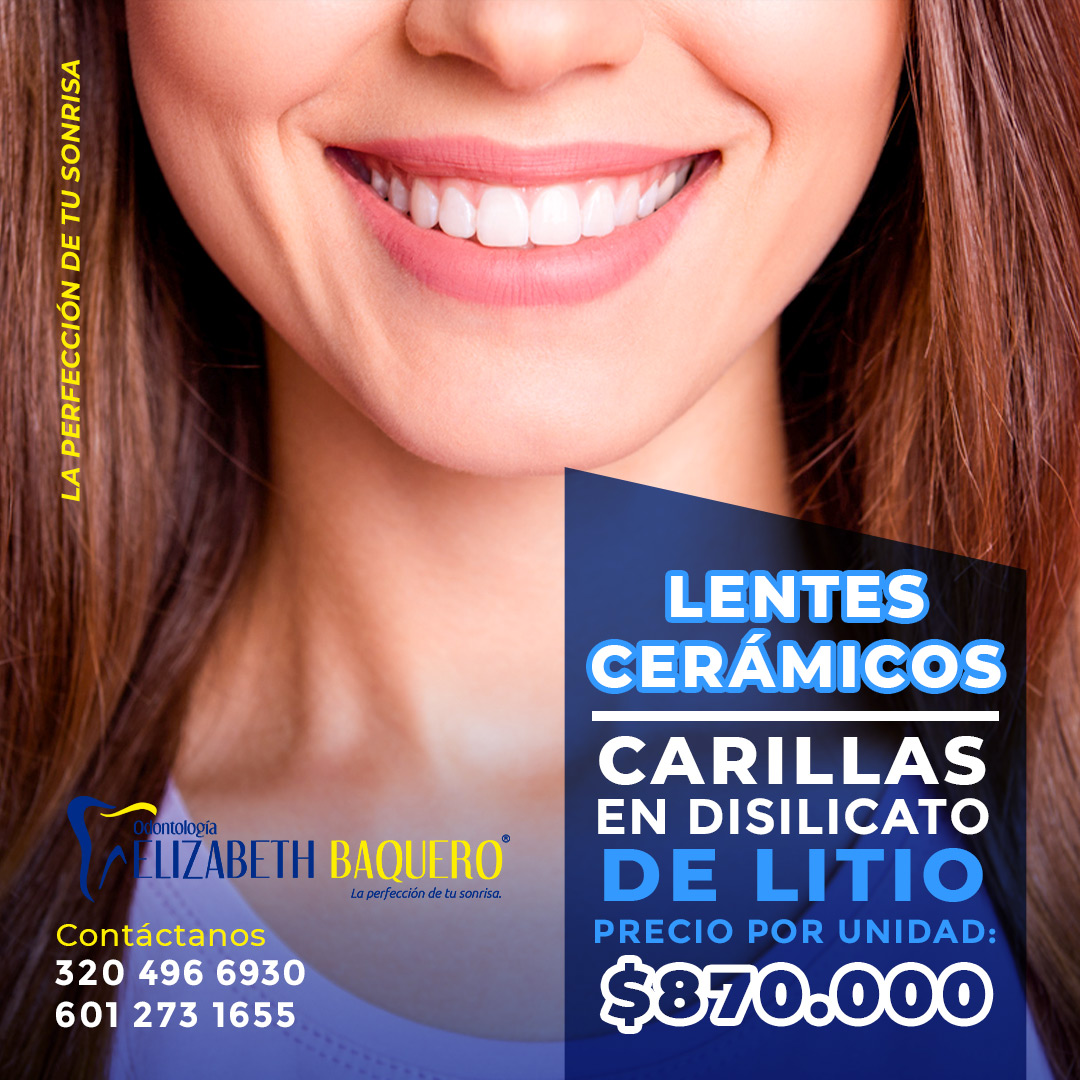
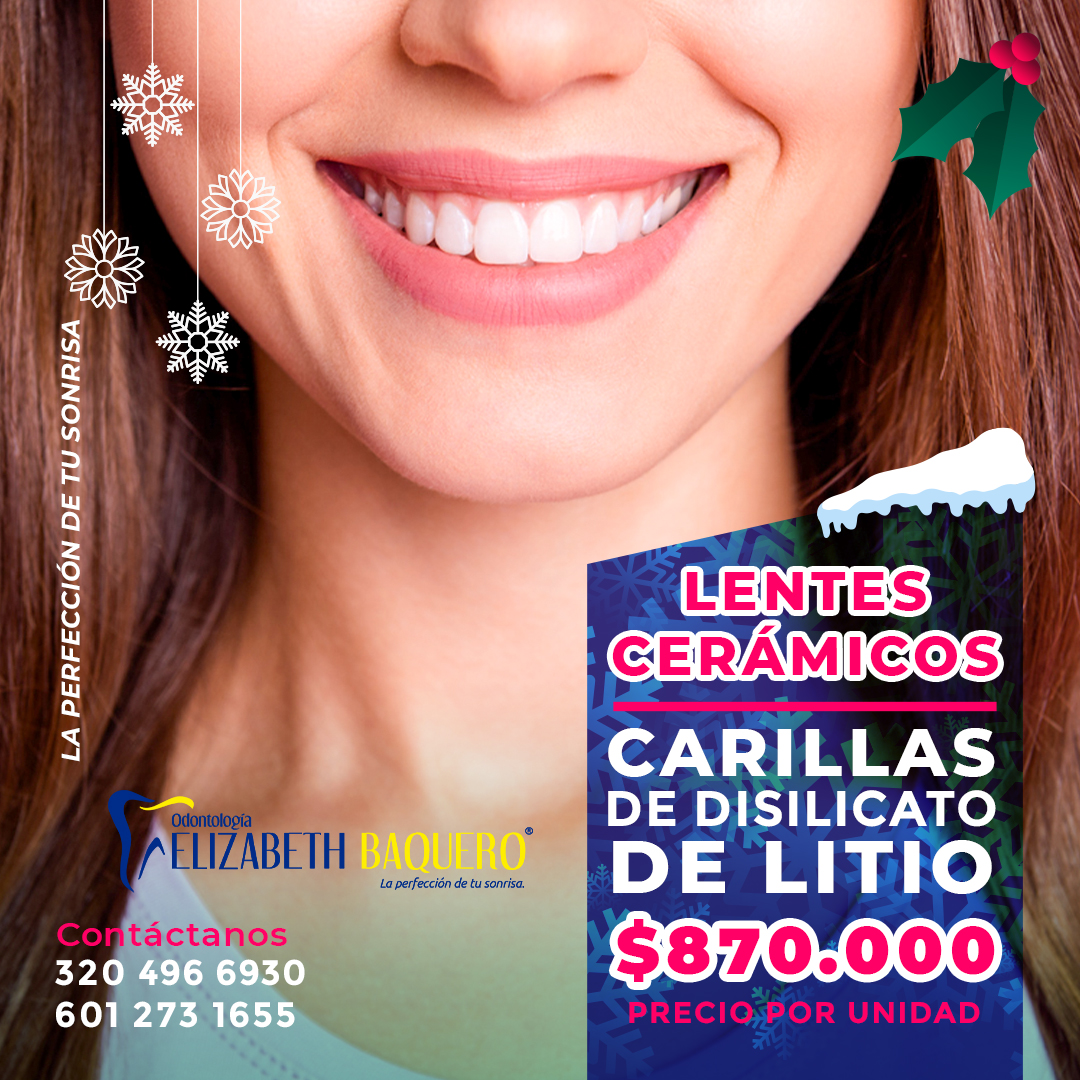
Promos Navideñas

diff --git a/promociones.html b/promociones.html
@@ -183,6 +183,20 @@
       </div>
     </div>
     <!--Fin Modal-->
+    <!--Inicio modal-->
+    <div class="container-modal-2" id="container-modal-3">
+      <div class="item-modal" id="item-modal-3">
+        <a id="close-3" class="close"><i class="bi bi-x-lg"></i></a>
+        <h1>Lentes Cerámicos</h1>
+        <h2>Antes y Después</h2>
+        <img src="imagenes/carillas-litio-baquero.jpg" alt="">
+        <div class="container-whats">
+          <a class="whats" href="https://api.whatsapp.com/send?phone=5712731655&text=Hola, quiero solicitar más información de lentes cerámicos" target="_blank">Solicitar más información</a>
+          <a class="whats" href="https://api.whatsapp.com/send?phone=5712731655&text=Hola, quiero agendar mi cita para mis lentes cerámicos" target="_blank">Agenda tu cita</a>
+        </div>
+      </div>
+    </div>
+    <!--Fin Modal-->
     <div class="hero-promociones">
       <div class="container-promo">
         <h2>Promociones</h2>
@@ -190,13 +204,16 @@
     </div>
     <div class="promos">
       <div class="container-promociones">
-        <div class="item-promociones">
+        <div class="item-promociones" id="container-limpieza">
+          <h3>Da click para revisar casos clínicos</h3>
           <a
-            href="https://api.whatsapp.com/send?phone=5712731655&text=Hola, quiero solicitar más información de carillas de disilitato de litio"
-            target="_blank"
+            id="carillas"
           >
-            <img src="imagenes/carillas-cuadrado-baquero.jpg" alt=""
+            <img id="" src="imagenes/carillas-cuadrado-baquero.jpg" alt=""
           /></a>
+          <div>
+            <h2>Más Información</h2>
+          </div>
         </div>
         <div class="item-promociones texto">
           <div>
@@ -217,7 +234,7 @@
             href="https://api.whatsapp.com/send?phone=5712731655&text=Hola, quiero solicitar más información de carillas de disilitato de litio"
             target="_blank"
           >
-            <img src="imagenes/carillas-litio-baquero.jpg" alt=""
+            <img src="imagenes/microdiseno-cuadrado-baquero.jpg" alt=""
           /></a>
         </div>
         <div class="item-promociones" id="container-limpieza">
@@ -225,7 +242,7 @@
           <a
             id="diseno"
           >
-            <img id="" src="imagenes/diseno-cuadrado-baquero.jpg" alt=""
+            <img id="" src="imagenes/disenonav-cuadrado-baquero.jpg" alt=""
           /></a>
           <div>
             <h2>Más Información</h2>
@@ -236,7 +253,7 @@
           <a
             id="blanqueamiento"
           >
-            <img id="" src="imagenes/junio-1.jpg" alt=""
+            <img id="" src="imagenes/blanqueamiento-cuadrado-baquero.jpg" alt=""
           /></a>
           <div>
             <h2>Más Información</h2>
@@ -257,7 +274,7 @@
           <a
             href="https://api.whatsapp.com/send?phone=5712731655&text=Quiero mi promoción de coronas"
             target="_blank"
-            ><img src="imagenes/coronas-cuadrado-baquero.jpg" alt=""
+            ><img src="imagenes/corona-cuadrado-baquero.jpg" alt=""
           /></a>
         </div>
         <div class="item-promociones">

diff --git a/js/index.js b/js/index.js
@@ -26,10 +26,18 @@ btnContacto.addEventListener('click', function(){
 const container = document.getElementById('container-modal');
 const container1 = document.getElementById('container-modal-1');
 const container2 = document.getElementById('container-modal-2');
+const container3 = document.getElementById('container-modal-3');
 const item = document.getElementById('item-modal');
 const item1 = document.getElementById('item-modal-1');
 const item2 = document.getElementById('item-modal-2');
+const item3 = document.getElementById('item-modal-3');
 
+document.getElementById('carillas').addEventListener('click', function () {
+  item3.style.display = "flex";
+  container3.style.width = "100%";
+  container3.style.height = "100vh";
+  document.getElementById('container-modal-3').style.animation = "showModal 0.3s linear forwards";
+});
 document.getElementById('limpieza').addEventListener('click', function () {
   item.style.display = "flex";
   container.style.width = "100%";
@@ -66,6 +74,12 @@ document.getElementById('close-2').addEventListener('click', function() {
   container2.style.width = "0";
   container2.style.height = "0";
   item2.style.display = "none";
+})
+document.getElementById('close-3').addEventListener('click', function() {
+  document.getElementById('container-modal-3').style.animation = "quitarModal 0.8s linear forwards";
+  container3.style.width = "0";
+  container3.style.height = "0";
+  item3.style.display = "none";
 })
 
 

diff --git a/css/promociones.css b/css/promociones.css
@@ -117,6 +117,7 @@
   display: none;
 }
 .item-modal .close {
+  cursor: pointer;
   width: 30px;
   height: 30px;
   border-radius: 50%;
